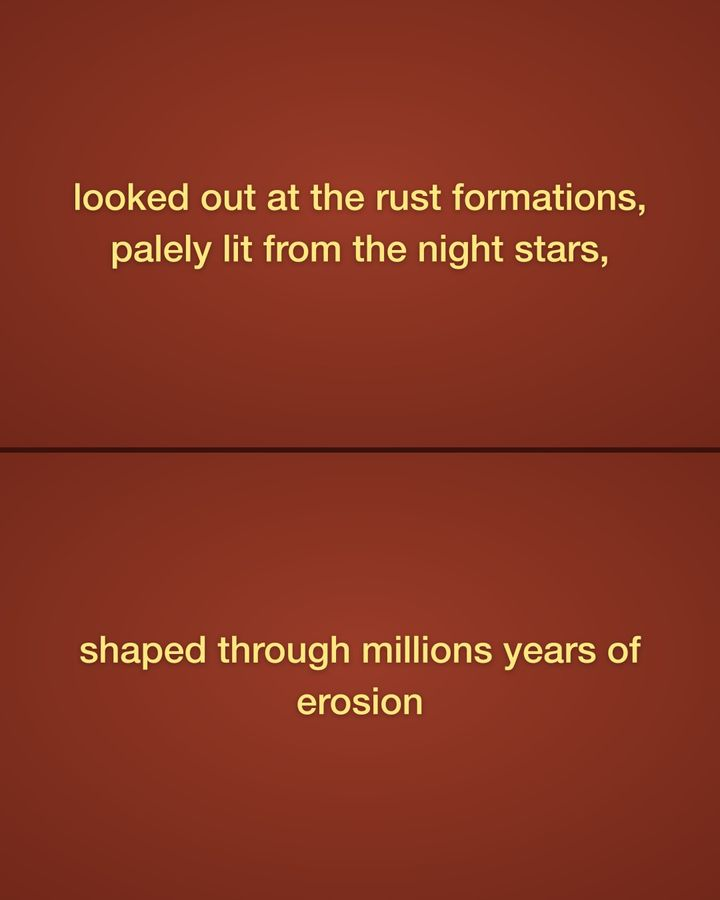
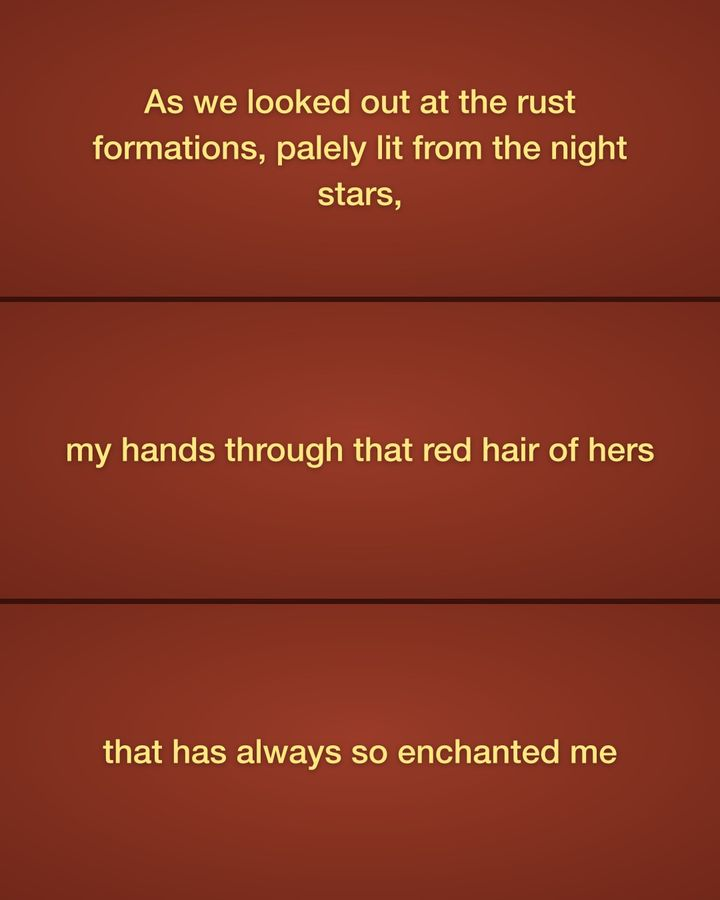
New Red Rocks ending (tattoo, red hair), 15 slides

Changed region(s): [[0.0, 0.0933, 1.0, 0.3422], [0.0, 0.6533, 1.0, 0.8711], [0.0, 0.4356, 1.0, 0.5289]]

diff --git a/index.html b/index.html
@@ -56,7 +56,7 @@
 
 
 <script>
-  const V = "3"; // bump after any slide change so phones don't show old cached slides
+  const V = "4"; // bump after any slide change so phones don't show old cached slides
   const N = 15, stage = document.getElementById("stage"), dots = document.getElementById("dots"), count = document.getElementById("count");
   const imgs = [];
   for (let i = 1; i <= N; i++) {
